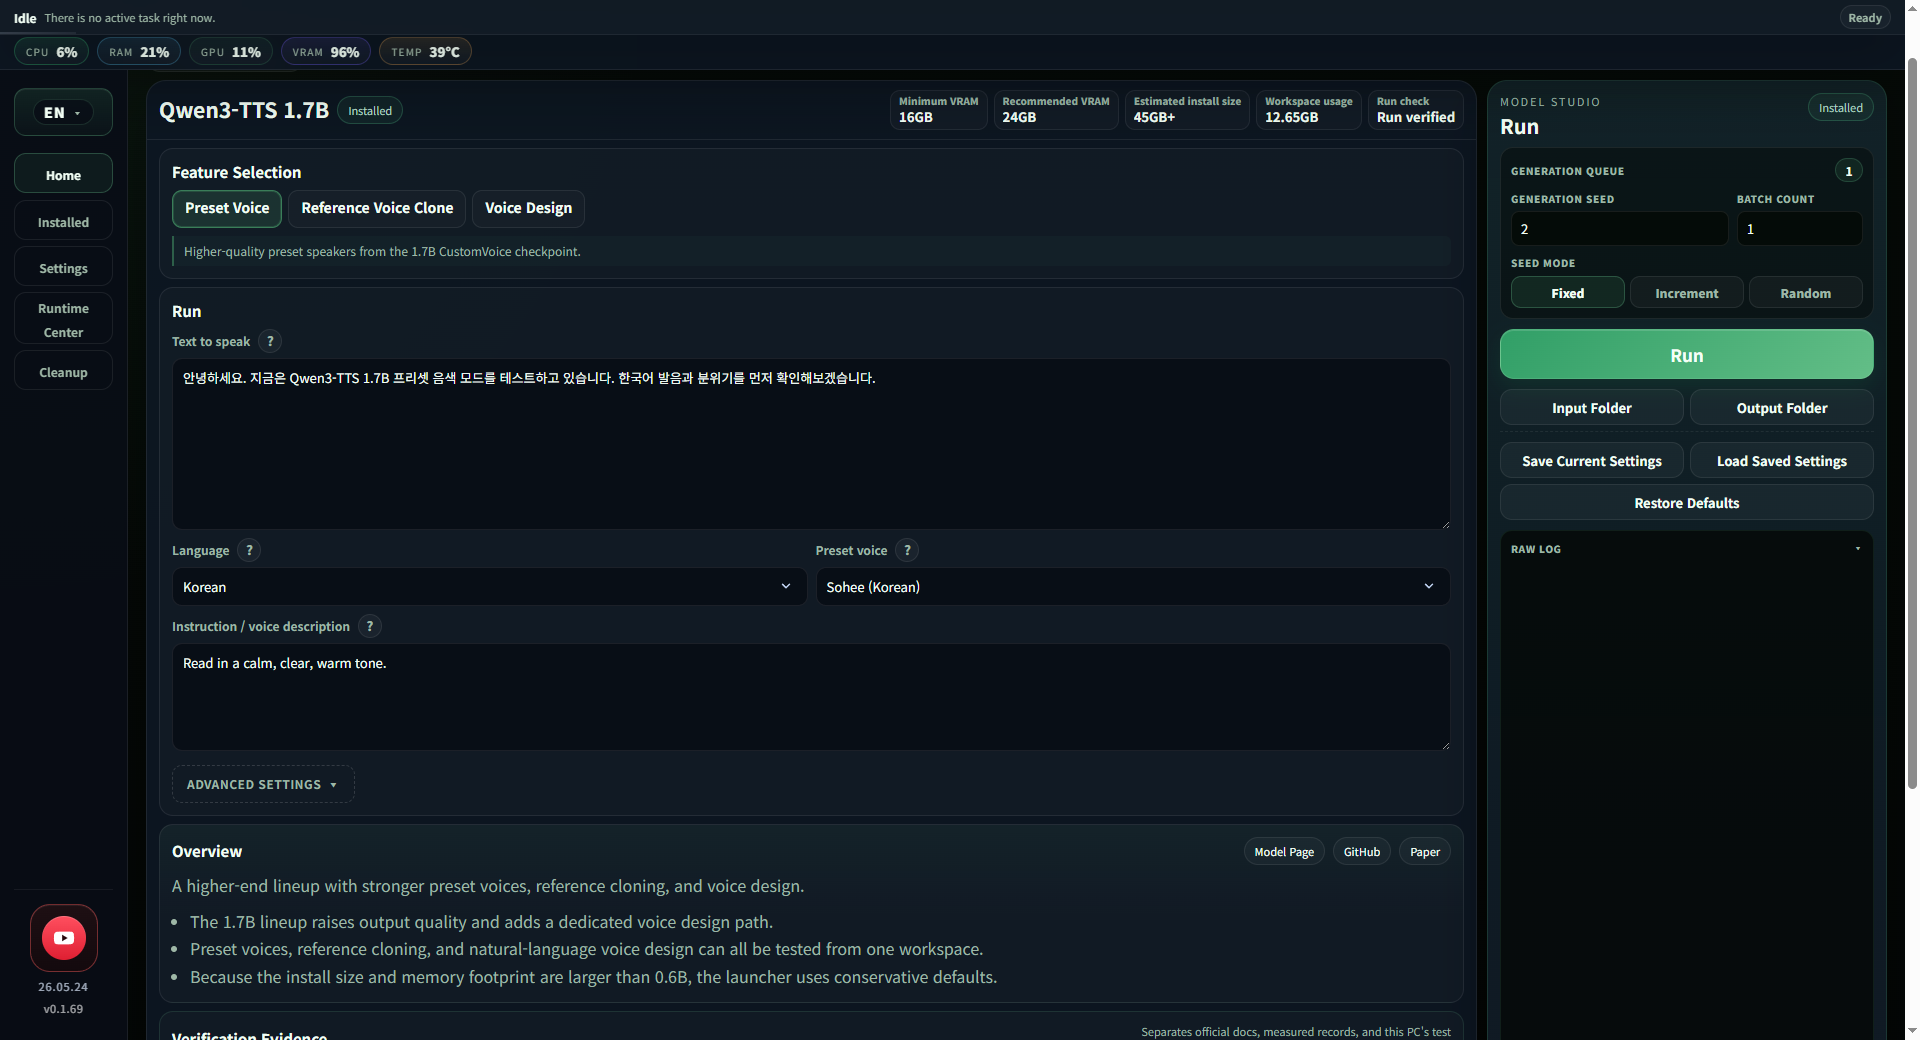
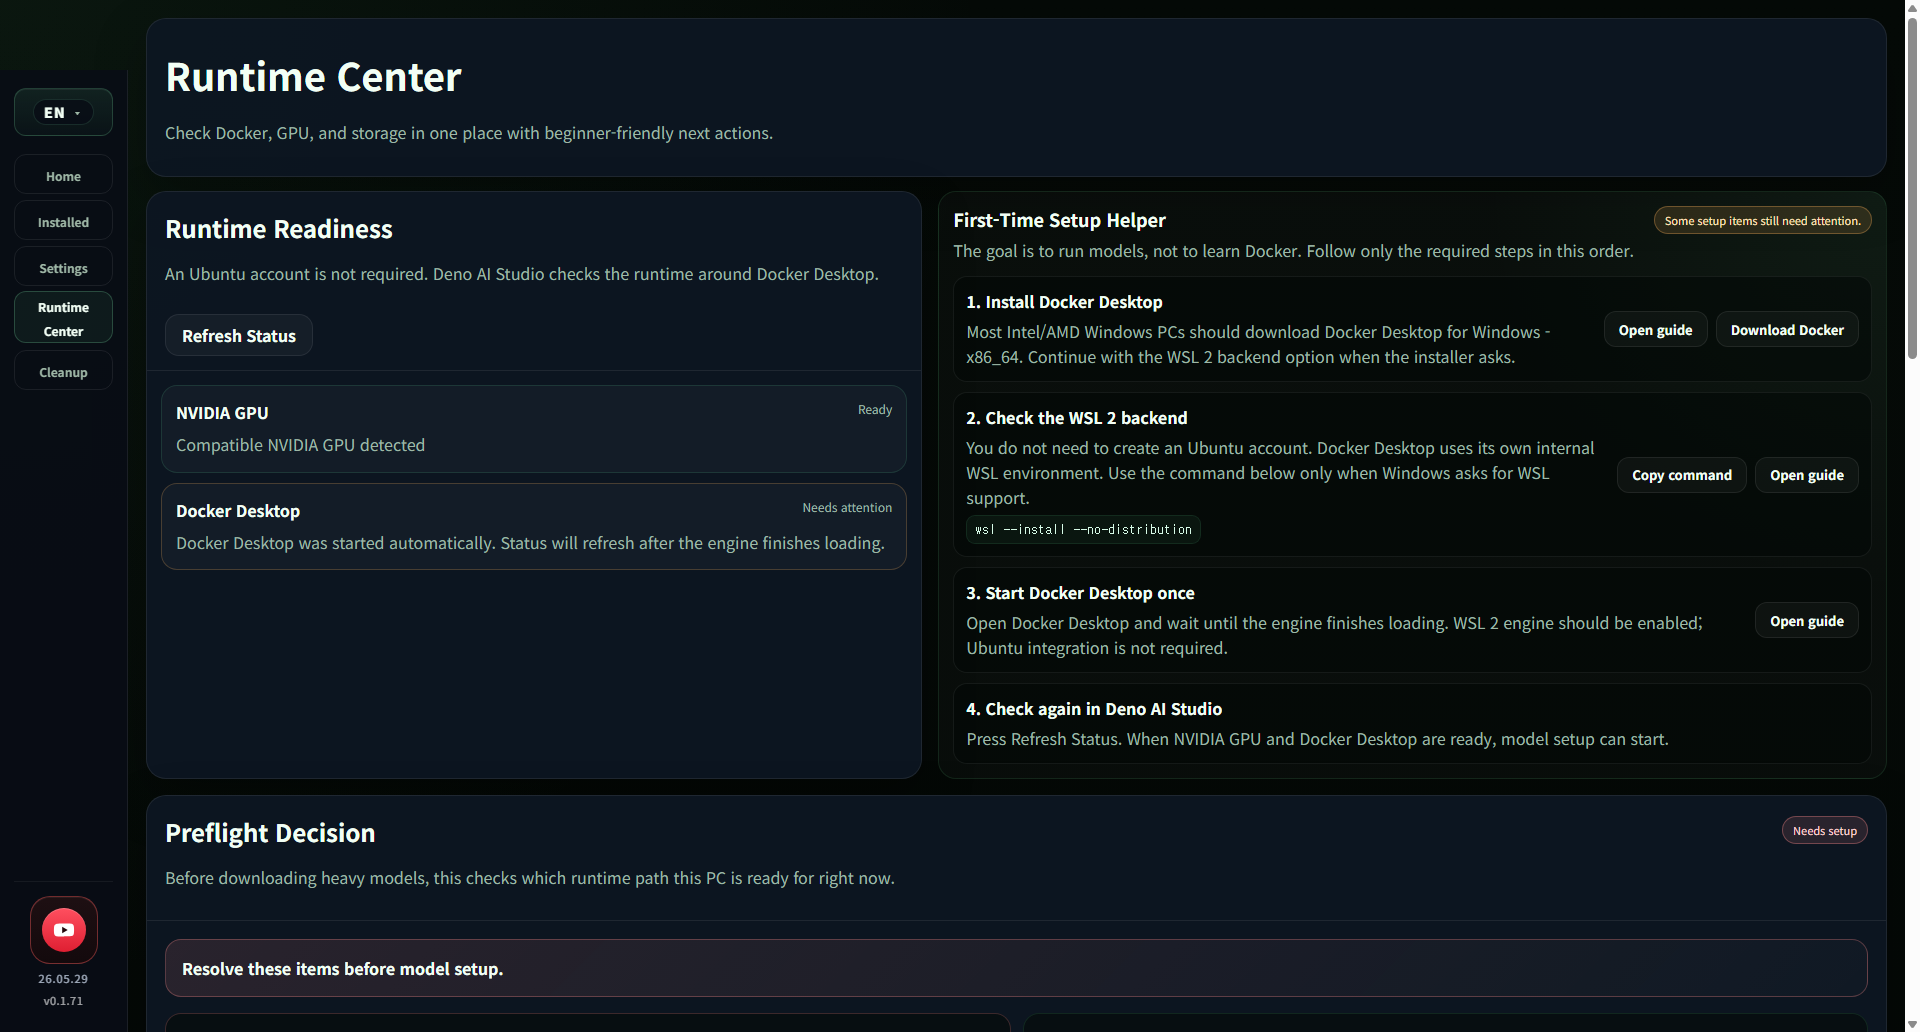
docs: refresh v0.1.71 install guide

diff --git a/README.md b/README.md
@@ -1,38 +1,53 @@
-# [Deno AI Studio](https://raw.githubusercontent.com/Deno2026/Windows-Installer-for-Deno-AI-Studio/main/deno-ai-studio/updates/windows-x64/Deno%20AI%20Studio%20Setup%200.1.71.exe)
+# Deno AI Studio
 
-<p>
-  <img src="deno-ai-studio/assets/home.png" alt="Deno AI Studio home catalog" width="100%">
-</p>
-<p>
-  <img src="deno-ai-studio/assets/detail.png" alt="Deno AI Studio model workspace" width="49%">
-  <img src="deno-ai-studio/assets/settings.png" alt="Deno AI Studio settings" width="49%">
-</p>
+A beginner-friendly Windows desktop launcher for installing and running open-source audio, speech, narration, and music models in isolated Docker workspaces.
 
-Windows `.exe` installer for **Deno AI Studio**, a beginner-friendly desktop launcher for open-source AI models.
+**Current Windows installer: v0.1.71**
 
-This repository is an installer/update host. It is **not** a Deno runtime project and it does not contain the source build workflow.
-
-Current installer: **Deno AI Studio Setup 0.1.71.exe**
-
-Latest update: Stable Audio 3.0 Medium has been added, and gated Hugging Face models now show an easier access/token guide inside the app.
-
-If an AI chatbot mentions an older installer version, use the download button on this page instead of the old version it guessed.
+This version adds Stable Audio 3.0 Medium and clearer access guidance for gated Hugging Face models.
 
 [![STEP 1 Install Docker Desktop](https://img.shields.io/badge/STEP%201-Install%20Docker%20Desktop-2496ED?style=for-the-badge&logo=docker&logoColor=white)](https://docs.docker.com/desktop/setup/install/windows-install/)
 [![STEP 2 Download Windows Installer](https://img.shields.io/badge/STEP%202-Download%20Windows%20Installer%20(.exe)-16A34A?style=for-the-badge&logo=github&logoColor=white)](https://raw.githubusercontent.com/Deno2026/Windows-Installer-for-Deno-AI-Studio/main/deno-ai-studio/updates/windows-x64/Deno%20AI%20Studio%20Setup%200.1.71.exe)
 
+[Verify the SHA-256 checksum](deno-ai-studio/updates/windows-x64/sha256.txt) · [View the update manifest](deno-ai-studio/updates/windows-x64/manifest.json)
+
+This repository hosts the official Windows installer and update files. It is not a source-build or Deno runtime repository.
+
 ## Start Here
 
-Install in this order:
+1. Install **Docker Desktop for Windows - x86_64**, open it once, and keep **Use the WSL 2 based engine** enabled.
+2. Download and run **Deno AI Studio Setup 0.1.71.exe**.
+3. Open Deno AI Studio, check **Runtime Center**, then choose a model from **Home** to install and run it.
 
-1. Install **Docker Desktop for Windows - x86_64**.
-2. Open Docker Desktop once and ensure **Use the WSL 2 based engine** is enabled.
-3. If Windows or Docker says WSL is missing, open PowerShell as Administrator and run `wsl --install --no-distribution`, then restart Windows.
-4. Download and run **Deno AI Studio Setup 0.1.71.exe**.
-5. Open Deno AI Studio and use **Runtime Center** to check GPU, Docker, disk, and model readiness.
-6. Pick a model from the catalog, install it, then run it from the model workspace.
+If Windows or Docker says WSL is missing, open PowerShell as Administrator, run `wsl --install --no-distribution`, and restart Windows when asked.
 
 Ubuntu is optional. Install Ubuntu only if you personally want a Linux terminal. Deno AI Studio uses Docker Desktop's WSL 2 backend on Windows and does not require a separate Ubuntu installation for normal app use.
+
+## Inside Deno AI Studio
+
+### 1. Home
+
+Browse the current stable model catalog and see the selected model's requirements before installing it.
+
+<p>
+  <img src="deno-ai-studio/assets/home.png" alt="Deno AI Studio v0.1.71 Home model catalog" width="100%">
+</p>
+
+### 2. Runtime Center
+
+Check GPU, Docker, storage, and model readiness in one place before you start a run.
+
+<p>
+  <img src="deno-ai-studio/assets/detail.png" alt="Deno AI Studio v0.1.71 Runtime Center" width="100%">
+</p>
+
+### 3. Settings
+
+Set launcher-wide defaults, including the short ending tail used by supported audio models.
+
+<p>
+  <img src="deno-ai-studio/assets/settings.png" alt="Deno AI Studio v0.1.71 Settings" width="100%">
+</p>
 
 ## Chatbot-Friendly Short Answer
 

diff --git a/deno-ai-studio/README.md b/deno-ai-studio/README.md
@@ -1,38 +1,53 @@
-# [Deno AI Studio](https://raw.githubusercontent.com/Deno2026/Windows-Installer-for-Deno-AI-Studio/main/deno-ai-studio/updates/windows-x64/Deno%20AI%20Studio%20Setup%200.1.71.exe)
+# Deno AI Studio
 
-<p>
-  <img src="assets/home.png" alt="Deno AI Studio home catalog" width="100%">
-</p>
-<p>
-  <img src="assets/detail.png" alt="Deno AI Studio model workspace" width="49%">
-  <img src="assets/settings.png" alt="Deno AI Studio settings" width="49%">
-</p>
+A beginner-friendly Windows desktop launcher for installing and running open-source audio, speech, narration, and music models in isolated Docker workspaces.
 
-Windows `.exe` installer for **Deno AI Studio**, a beginner-friendly desktop launcher for open-source AI models.
+**Current Windows installer: v0.1.71**
 
-This repository is an installer/update host. It is **not** a Deno runtime project and it does not contain the source build workflow.
-
-Current installer: **Deno AI Studio Setup 0.1.71.exe**
-
-Latest update: Stable Audio 3.0 Medium has been added, and gated Hugging Face models now show an easier access/token guide inside the app.
-
-If an AI chatbot mentions an older installer version, use the download button on this page instead of the old version it guessed.
+This version adds Stable Audio 3.0 Medium and clearer access guidance for gated Hugging Face models.
 
 [![STEP 1 Install Docker Desktop](https://img.shields.io/badge/STEP%201-Install%20Docker%20Desktop-2496ED?style=for-the-badge&logo=docker&logoColor=white)](https://docs.docker.com/desktop/setup/install/windows-install/)
 [![STEP 2 Download Windows Installer](https://img.shields.io/badge/STEP%202-Download%20Windows%20Installer%20(.exe)-16A34A?style=for-the-badge&logo=github&logoColor=white)](https://raw.githubusercontent.com/Deno2026/Windows-Installer-for-Deno-AI-Studio/main/deno-ai-studio/updates/windows-x64/Deno%20AI%20Studio%20Setup%200.1.71.exe)
 
+[Verify the SHA-256 checksum](updates/windows-x64/sha256.txt) · [View the update manifest](updates/windows-x64/manifest.json)
+
+This repository hosts the official Windows installer and update files. It is not a source-build or Deno runtime repository.
+
 ## Start Here
 
-Install in this order:
+1. Install **Docker Desktop for Windows - x86_64**, open it once, and keep **Use the WSL 2 based engine** enabled.
+2. Download and run **Deno AI Studio Setup 0.1.71.exe**.
+3. Open Deno AI Studio, check **Runtime Center**, then choose a model from **Home** to install and run it.
 
-1. Install **Docker Desktop for Windows - x86_64**.
-2. Open Docker Desktop once and ensure **Use the WSL 2 based engine** is enabled.
-3. If Windows or Docker says WSL is missing, open PowerShell as Administrator and run `wsl --install --no-distribution`, then restart Windows.
-4. Download and run **Deno AI Studio Setup 0.1.71.exe**.
-5. Open Deno AI Studio and use **Runtime Center** to check GPU, Docker, disk, and model readiness.
-6. Pick a model from the catalog, install it, then run it from the model workspace.
+If Windows or Docker says WSL is missing, open PowerShell as Administrator, run `wsl --install --no-distribution`, and restart Windows when asked.
 
 Ubuntu is optional. Install Ubuntu only if you personally want a Linux terminal. Deno AI Studio uses Docker Desktop's WSL 2 backend on Windows and does not require a separate Ubuntu installation for normal app use.
+
+## Inside Deno AI Studio
+
+### 1. Home
+
+Browse the current stable model catalog and see the selected model's requirements before installing it.
+
+<p>
+  <img src="assets/home.png" alt="Deno AI Studio v0.1.71 Home model catalog" width="100%">
+</p>
+
+### 2. Runtime Center
+
+Check GPU, Docker, storage, and model readiness in one place before you start a run.
+
+<p>
+  <img src="assets/detail.png" alt="Deno AI Studio v0.1.71 Runtime Center" width="100%">
+</p>
+
+### 3. Settings
+
+Set launcher-wide defaults, including the short ending tail used by supported audio models.
+
+<p>
+  <img src="assets/settings.png" alt="Deno AI Studio v0.1.71 Settings" width="100%">
+</p>
 
 ## Chatbot-Friendly Short Answer
 
